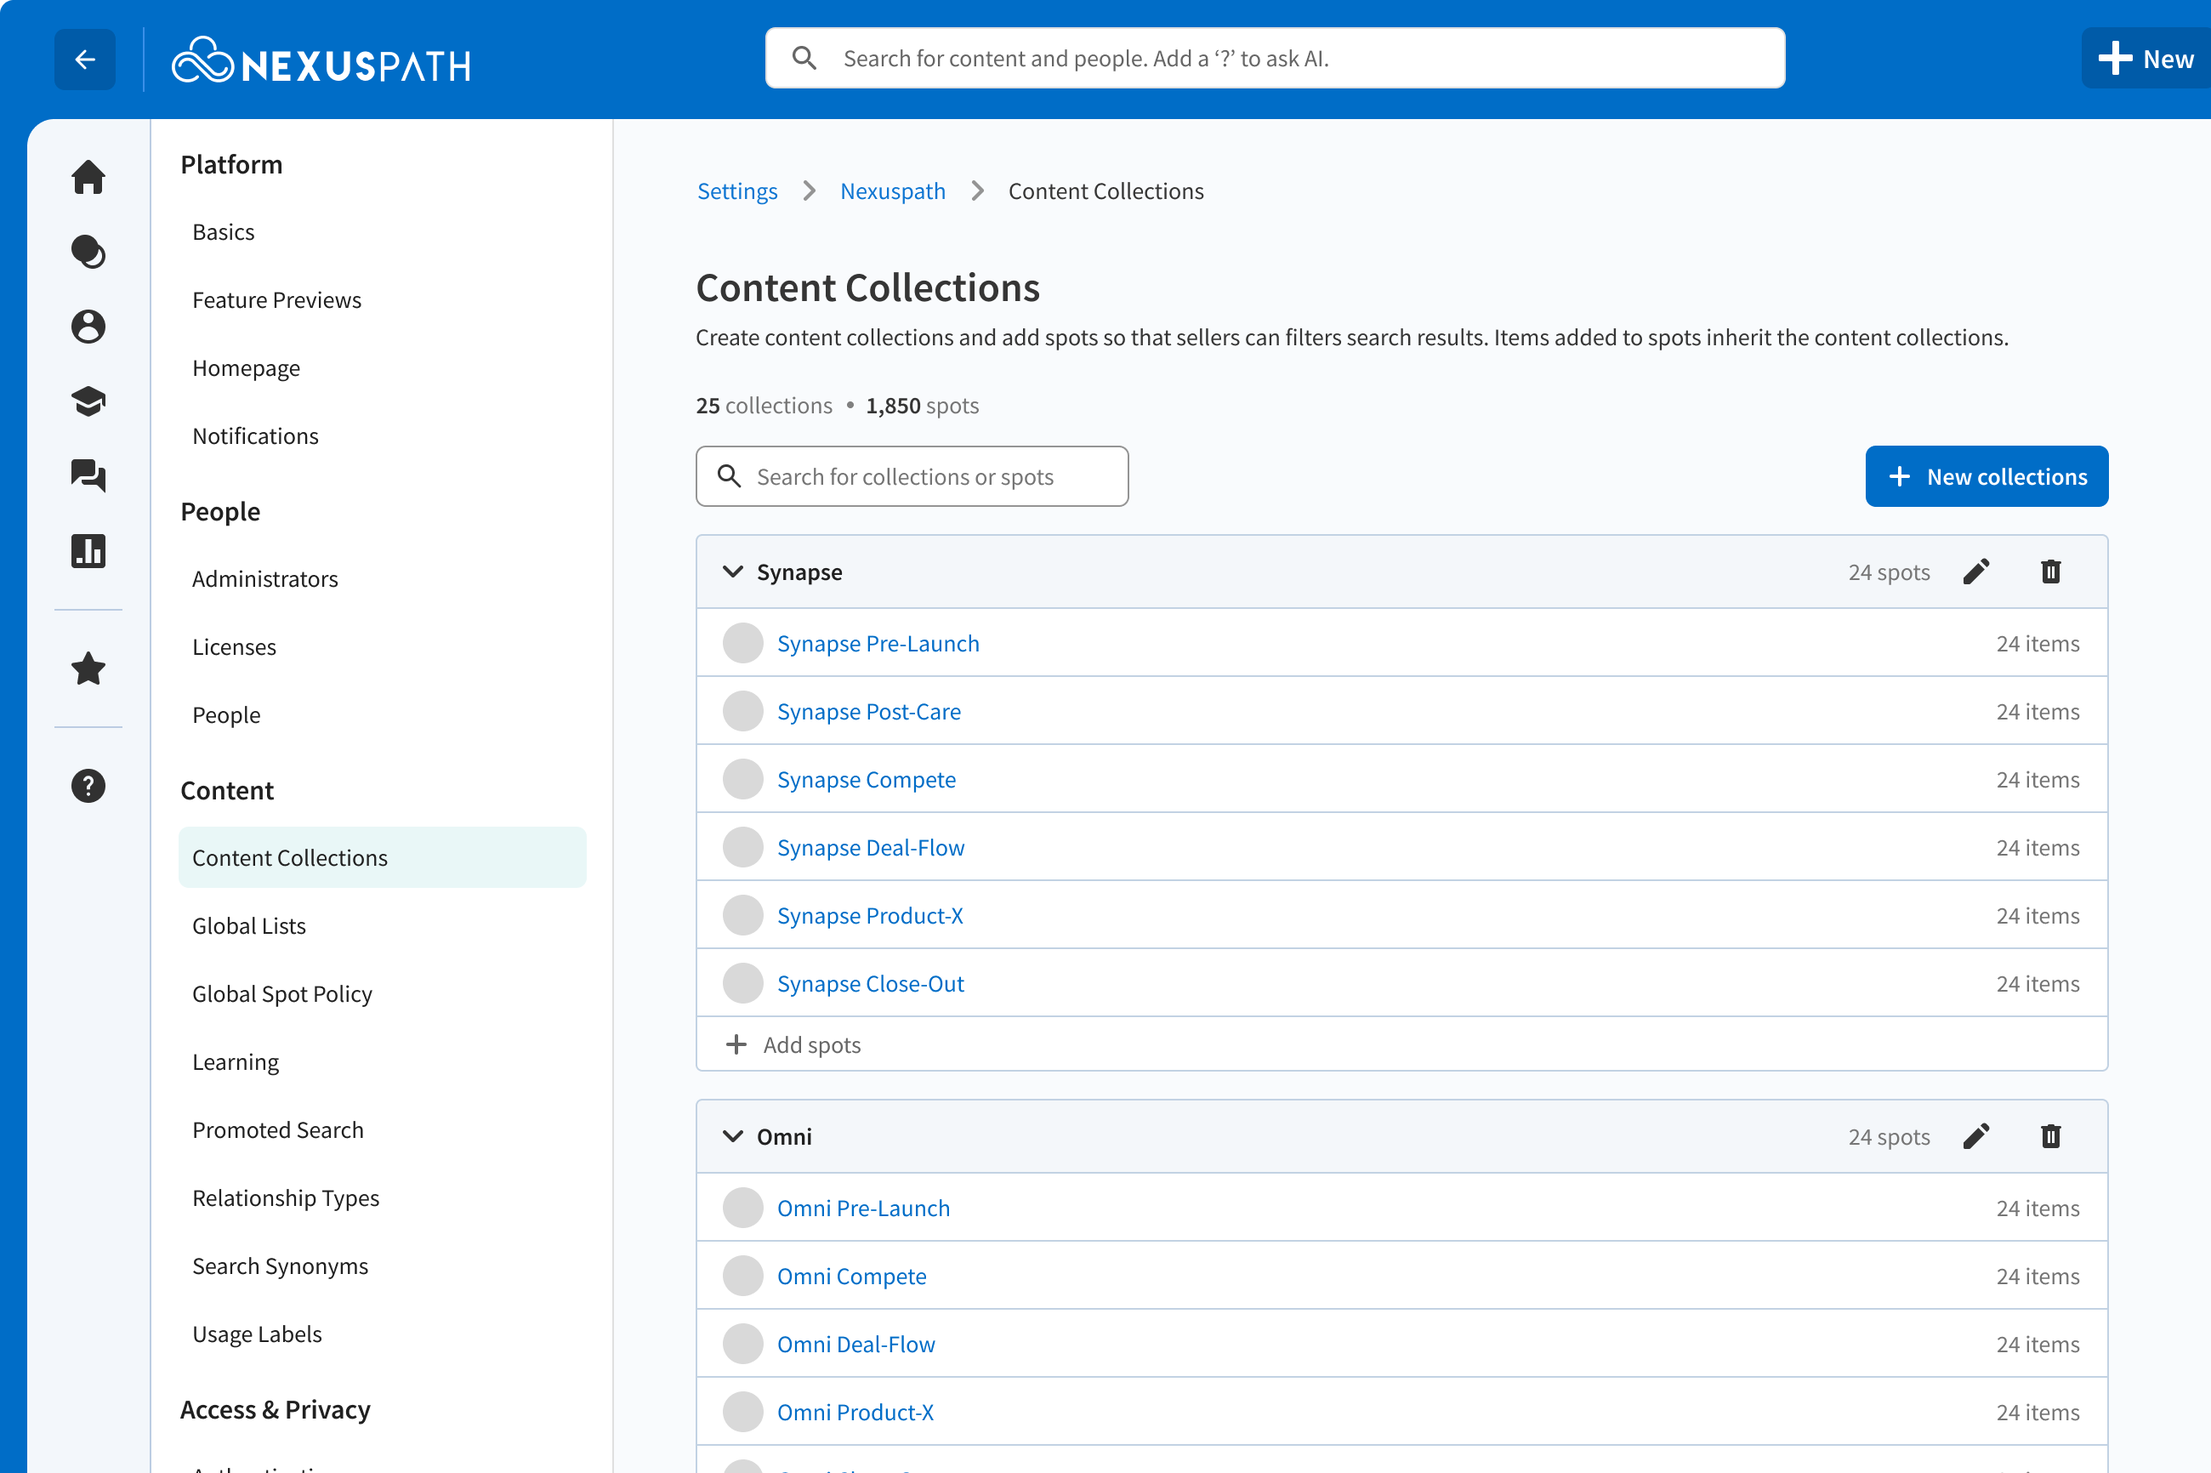
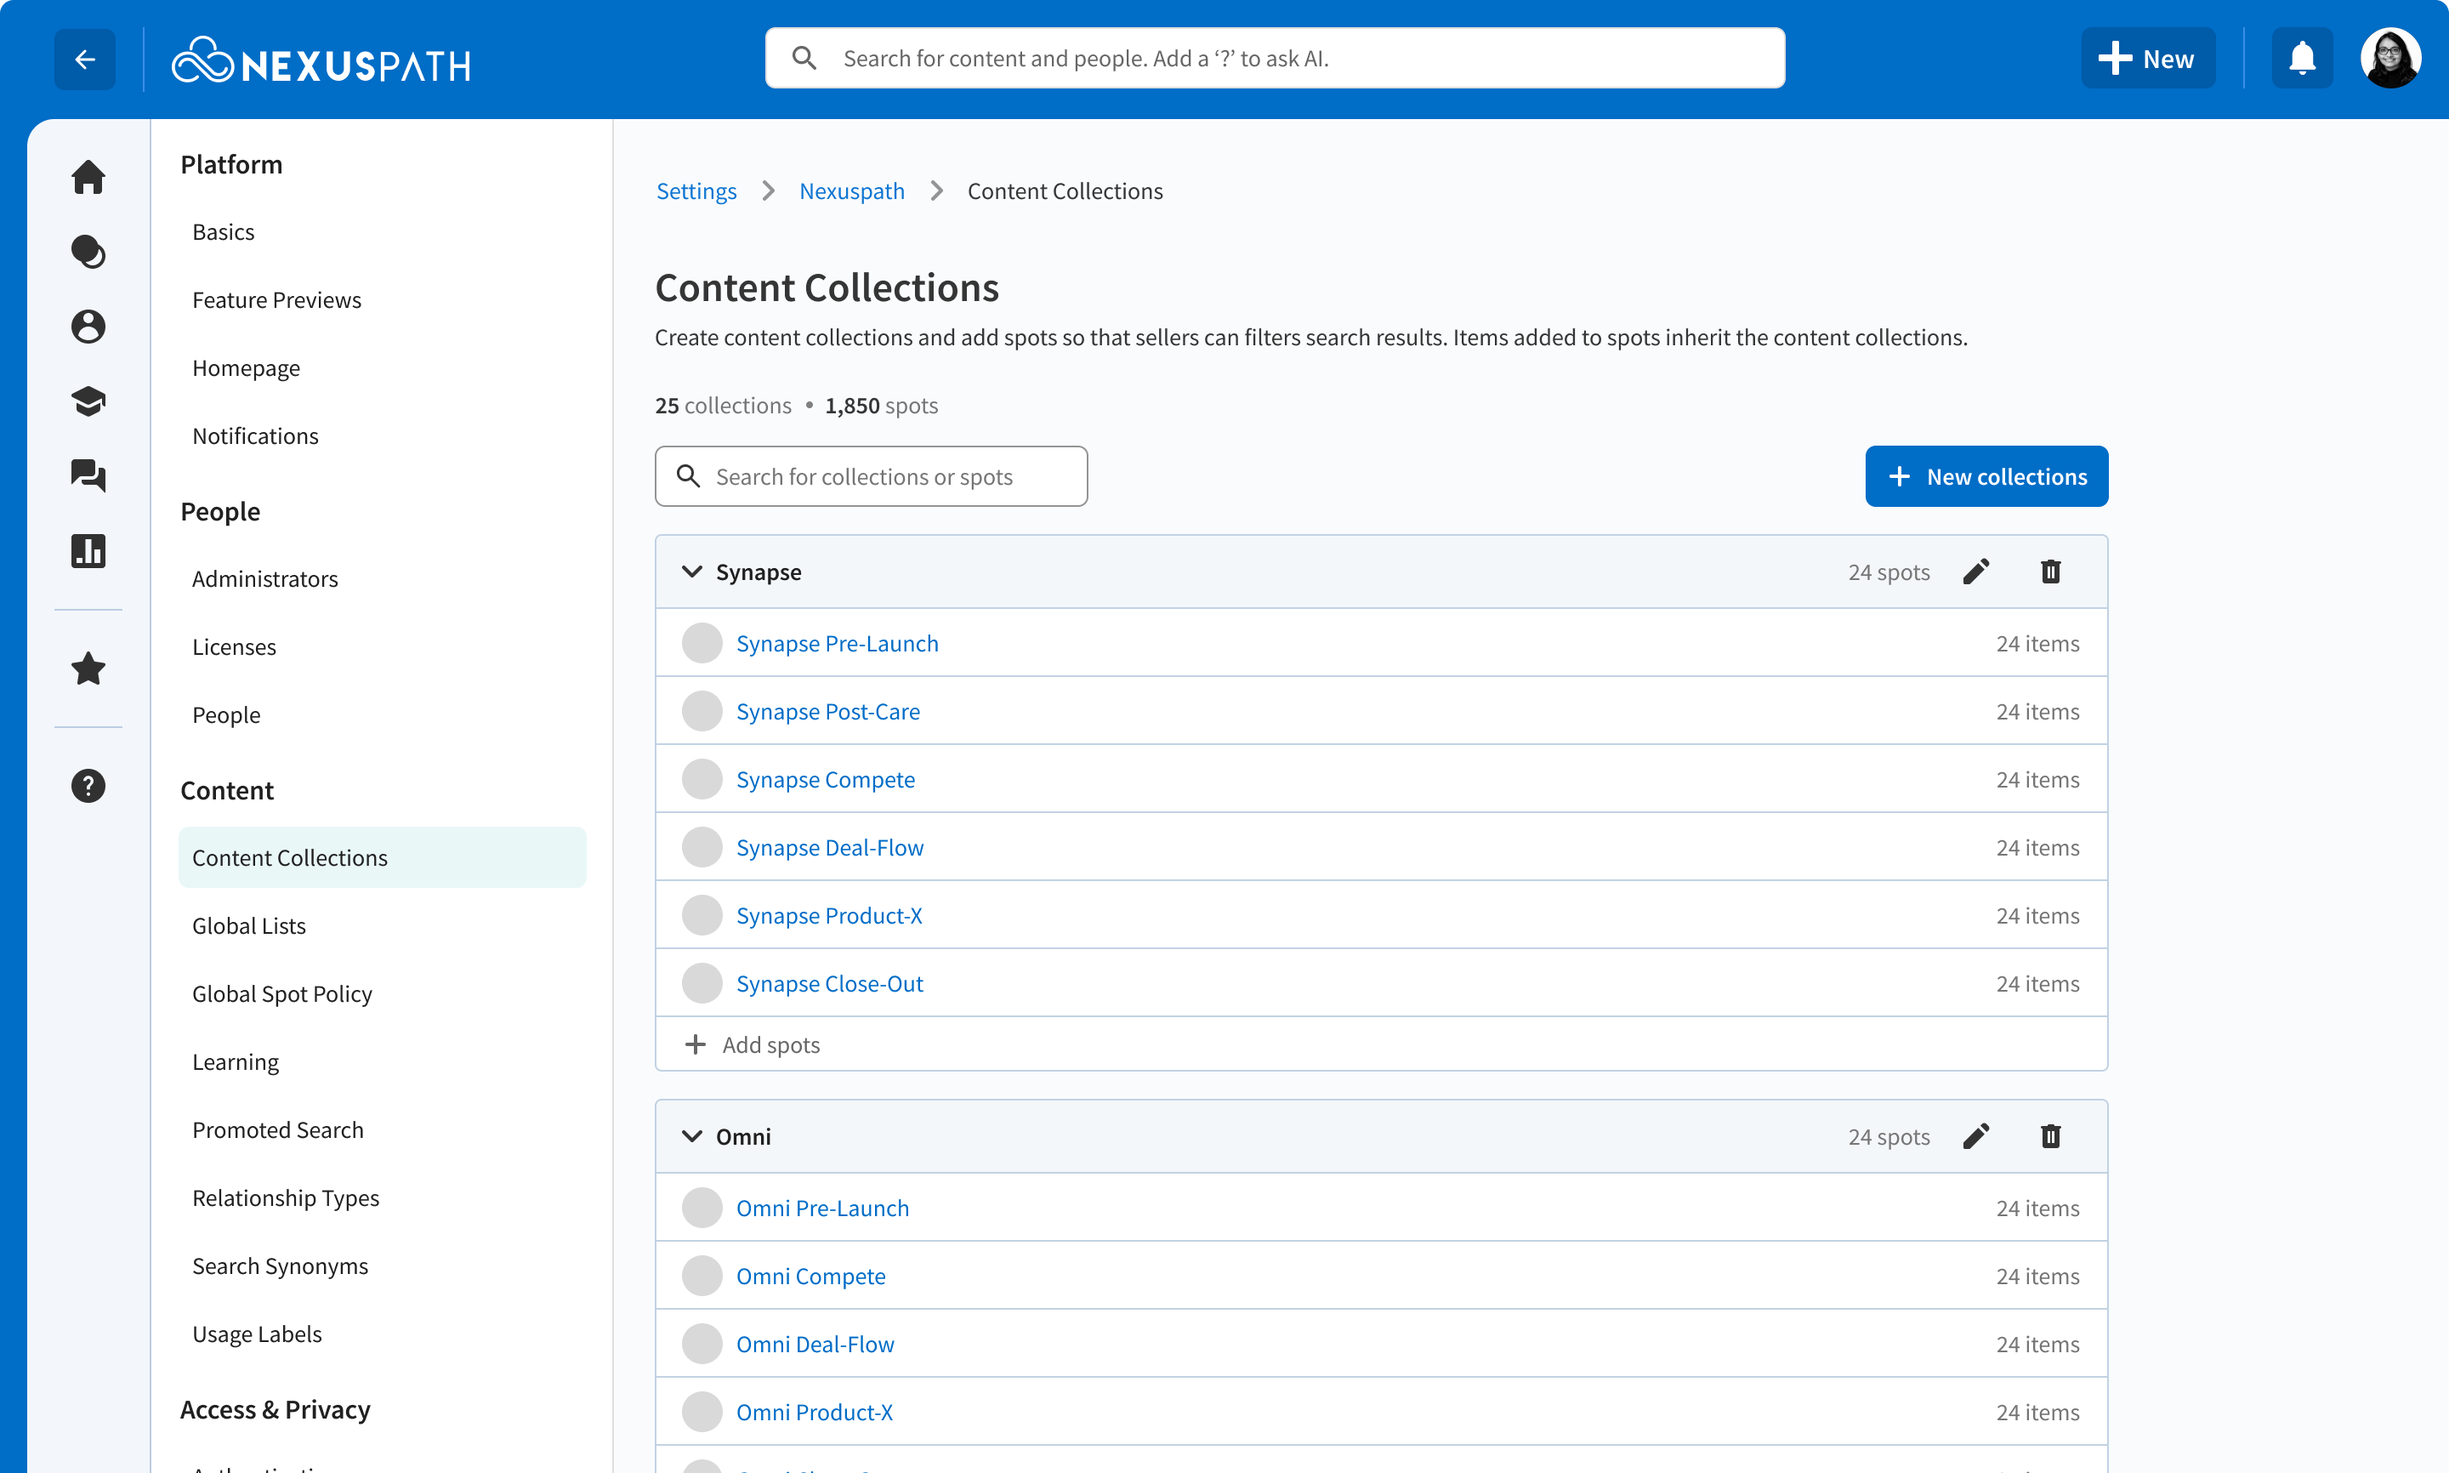
Update scoped search layout and refine filtering section copy
Move content collections settings image into its own full-width row and update the filtering experience section title and copy.

diff --git a/scoped-search-portfolio.html b/scoped-search-portfolio.html
@@ -237,18 +237,12 @@
   </div>
 
   <!-- FOUNDATION -->
-  <div class="section-row reverse fade-in">
+  <div class="section-row reverse fade-in" style="border-bottom: 0; padding-bottom: 0;">
     <div>
       <div class="full-image">
         <img src="Images/introducing content collection.png" alt="Content collection hierarchy diagram" style="width:100%;display:block;margin-bottom:8px;">
         <p class="img-caption">Content collection: a higher level grouping to match how reps search</p>
       </div>
-      <div class="section-image-card warm ss-edge-visual" style="margin-top:32px;">
-        <div class="img-slot">
-          <img src="Images/content-collections-settings.png" alt="Scoped Search">
-        </div>
-      </div>
-      <p class="img-caption">Content collections page in the admin settings</p>
     </div>
     <div class="section-text">
       <div class="section-label">Content collection</div>
@@ -281,6 +275,14 @@
       </div>
     </div>
   </div>
+  <div class="fade-in" style="padding: 40px 0 80px;">
+    <div class="section-image-card warm ss-edge-visual">
+      <div class="img-slot">
+        <img src="Images/content-collections-settings.png" alt="Content collections page in the admin settings">
+      </div>
+    </div>
+    <p class="img-caption">Content collections page in the admin settings</p>
+  </div>
 
   <!-- DESIGN CHALLENGE -->
   <div class="section-row reverse fade-in">
@@ -298,10 +300,10 @@
     </div>
     <div class="section-text">
       <div class="section-label">The filtering experience</div>
-      <h2 class="section-title">Evaluating two approaches: scoping the query versus filtering the results</h2>
+      <h2 class="section-title">Filtering results by content collections</h2>
       <div class="section-body">
         <ul>
-          <li>I explored two models: scoping before submitting a query, and filtering post-search.</li>
+          <li>I explored two models: <strong>scoping</strong> before submitting a query, and <strong>filtering</strong> post-search.</li>
           <li>Scoping before submission in the search dropdown was an opportunity for quick and discoverable scoping.</li>
           <li>When I designed the scoping experience for the maximum, it made the interaction very complex.</li>
           <li>I used a working prototype to demonstrate the complexity and aligned the team on two principles:
